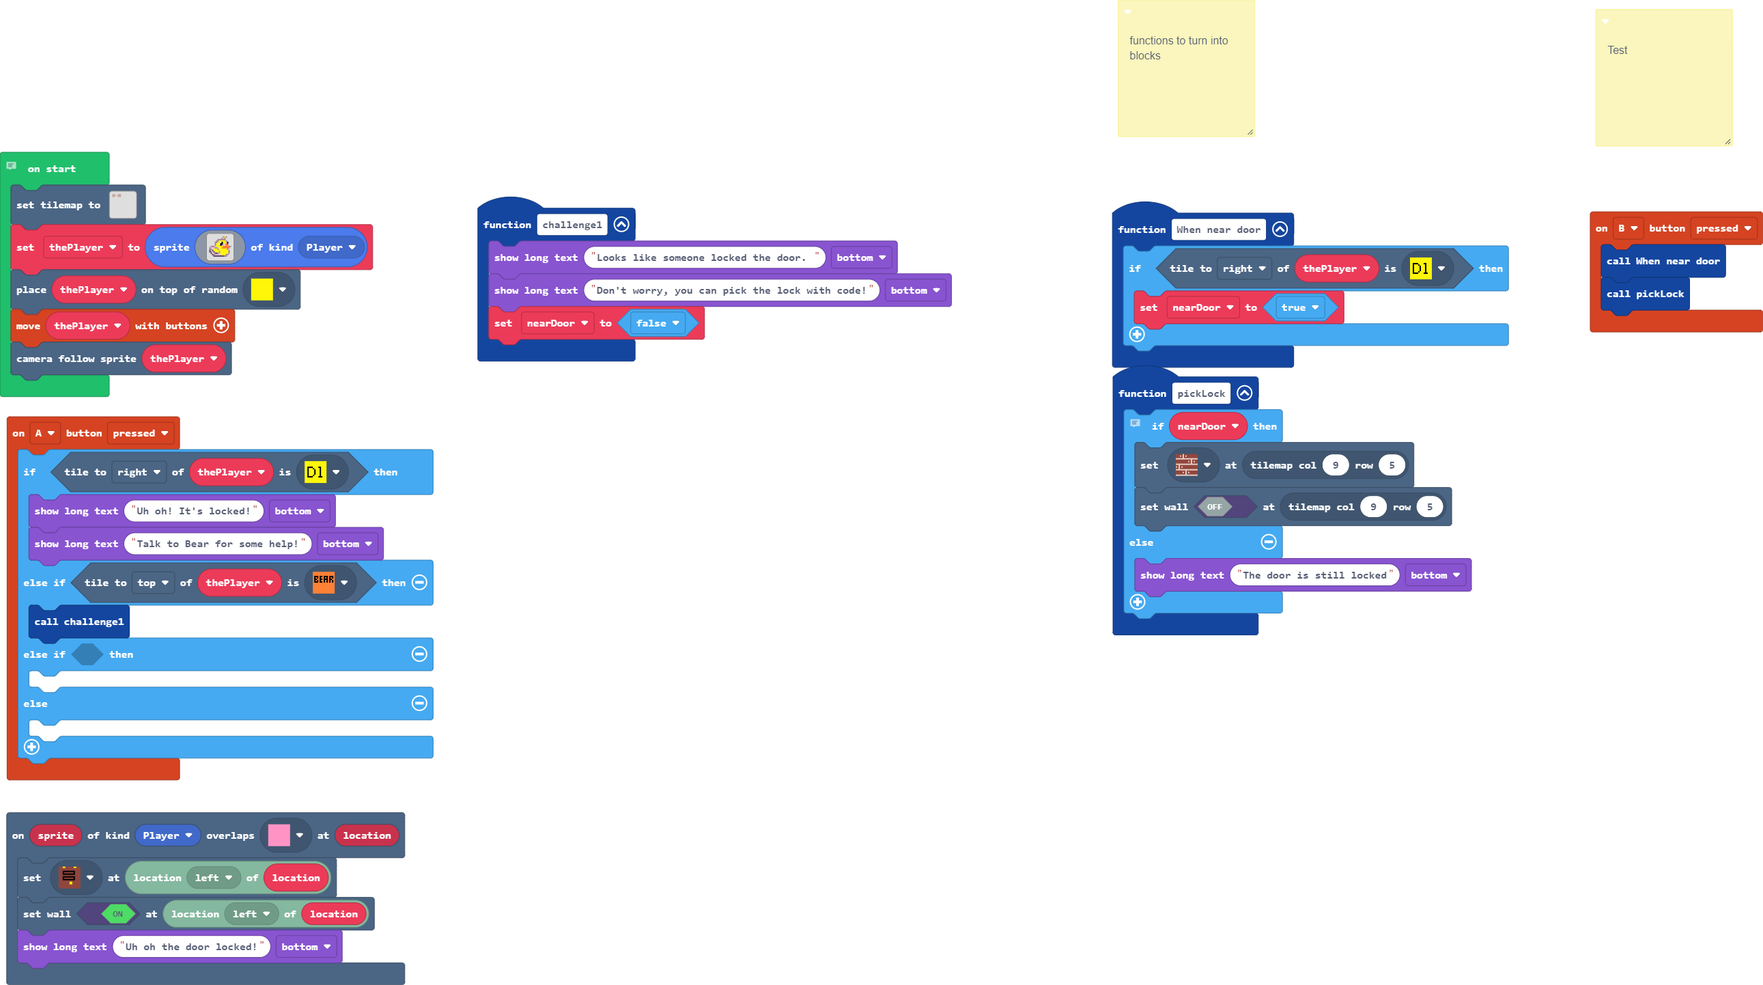
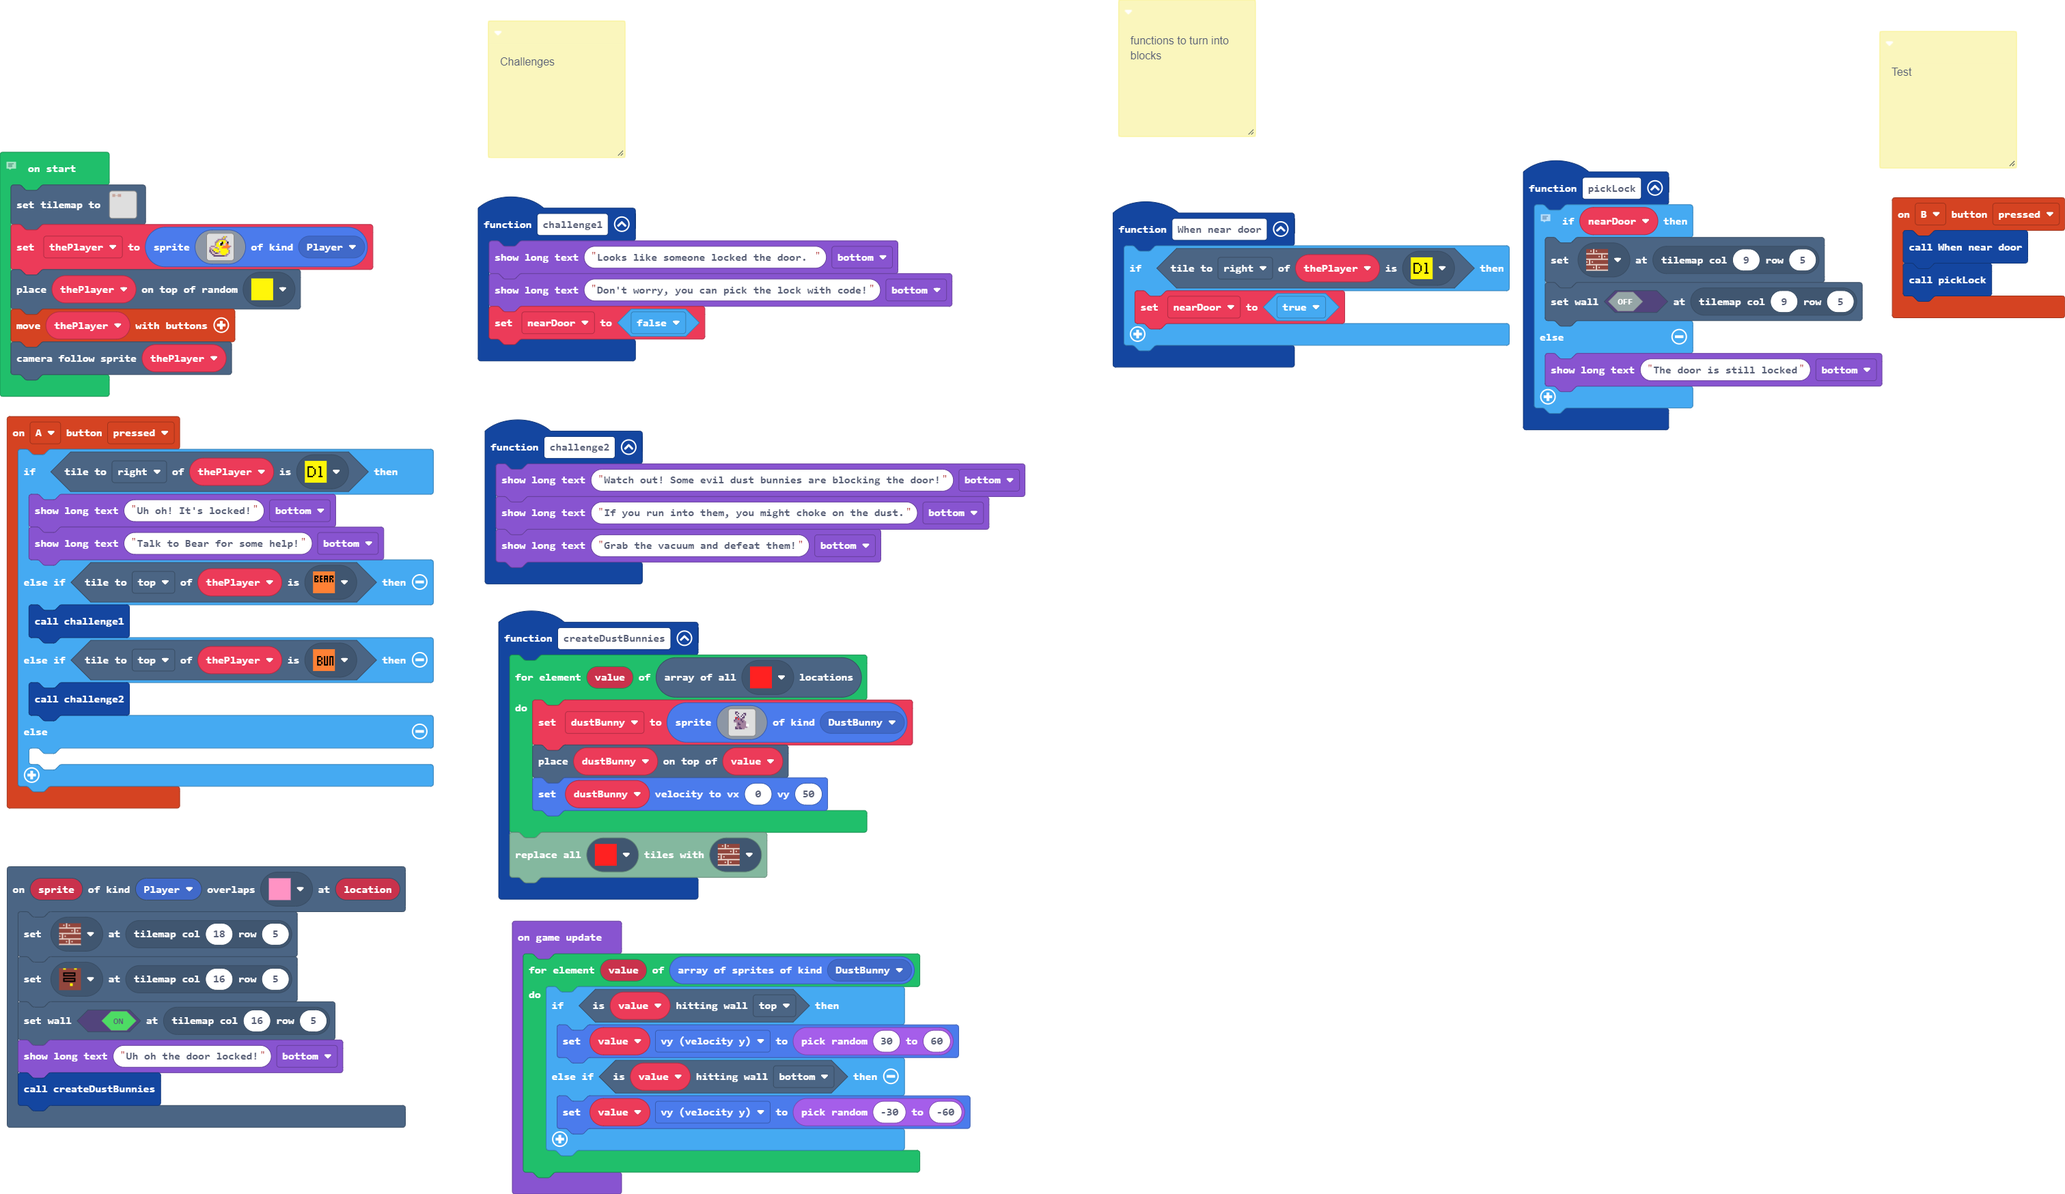
dust bunnies moving

diff --git a/main.ts b/main.ts
@@ -1,8 +1,11 @@
+namespace SpriteKind {
+    export const DustBunny = SpriteKind.create()
+}
 /**
- * functions to turn into blocks
+ * Challenges
  */
 /**
- * Test
+ * functions to turn into blocks
  */
 controller.B.onEvent(ControllerButtonEvent.Pressed, function () {
     When_near_door()
@@ -19,12 +22,15 @@ controller.A.onEvent(ControllerButtonEvent.Pressed, function () {
         game.showLongText("Talk to Bear for some help!", DialogLayout.Bottom)
     } else if (thePlayer.tileKindAt(TileDirection.Top, myTiles.tile6)) {
         challenge1()
-    } else if (false) {
-    	
+    } else if (thePlayer.tileKindAt(TileDirection.Top, myTiles.tile9)) {
+        challenge2()
     } else {
     	
     }
 })
+/**
+ * Test
+ */
 function pickLock () {
     // replace if with 'when near door'
     if (nearDoor) {
@@ -40,14 +46,47 @@ function When_near_door () {
     }
 }
 scene.onOverlapTile(SpriteKind.Player, myTiles.tile7, function (sprite, location) {
-    tiles.setTileAt(tiles.locationInDirection(location, CollisionDirection.Left), myTiles.tile4)
-    tiles.setWallAt(tiles.locationInDirection(location, CollisionDirection.Left), true)
+    tiles.setTileAt(tiles.getTileLocation(18, 5), myTiles.tile1)
+    tiles.setTileAt(tiles.getTileLocation(16, 5), myTiles.tile4)
+    tiles.setWallAt(tiles.getTileLocation(16, 5), true)
     game.showLongText("Uh oh the door locked!", DialogLayout.Bottom)
+    createDustBunnies()
 })
+function createDustBunnies () {
+    for (let value of tiles.getTilesByType(myTiles.tile10)) {
+        dustBunny = sprites.create(img`
+            . . . c c . . . . . . . . . . . 
+            . . . c 1 c . . . c c . . . . . 
+            . . . . c 1 . . c 1 c . . . . . 
+            . . . . . c 1 c 1 c . . . . . . 
+            . . . 2 c b b 1 c c . . . . . . 
+            . . . c b 2 b c b . . . . . . . 
+            . . c b b b b c b b . . . . . . 
+            . . b b b b b b c b b . . . . . 
+            . . . . b c b b b b b . . . . . 
+            . . . . b c c b b b b 1 1 . . . 
+            . . . . b b b b b b b 1 1 . . . 
+            . . . c b b c b b b b b . . . . 
+            . . . c c b c c b b . . . . . . 
+            . . . . . . . . . . . . . . . . 
+            . . . . . . . . . . . . . . . . 
+            . . . . . . . . . . . . . . . . 
+            `, SpriteKind.DustBunny)
+        tiles.placeOnTile(dustBunny, value)
+        dustBunny.setVelocity(0, 50)
+    }
+    tiles.replaceAllTiles(myTiles.tile10, myTiles.tile1)
+}
+function challenge2 () {
+    game.showLongText("Watch out! Some evil dust bunnies are blocking the door!", DialogLayout.Bottom)
+    game.showLongText("If you run into them, you might choke on the dust.", DialogLayout.Bottom)
+    game.showLongText("Grab the vacuum and defeat them!", DialogLayout.Bottom)
+}
 // add intro, instructions
+let dustBunny: Sprite = null
 let nearDoor = false
 let thePlayer: Sprite = null
-tiles.setTilemap(tiles.createTilemap(hex`4000400002020202020202020202000000000000020202020202020202020200000000000000000000000000000000000000000000000000000000000000000000000000020101010101050101020000000000000201010501010101010102000000000000000000000000000000000000000000000000000000000000000000000000000201010101010101010200000000000002010101010101010101020000000000000000000000000000000000000000000000000000000000000000000000000002010101010101010102000000000000020101010101010101010200000000000000000000000000000000000000000000000000000000000000000000000000020103010101010101020202020202020201010101010101010102000000000000000000000000000000000000000000000000000000000000000000000000000201010101010101010401010101010107060101010101010101020000000000000000000000000000000000000000000000000000000000000000000000000002010101010101010102020202020202020101010101010101010200000000000000000000000000000000000000000000000000000000000000000000000000020101010101010101020000000000000201010101010101010102000000000000000000000000000000000000000000000000000000000000000000000000000201010101010101010200000000000002010101010101010101020000000000000000000000000000000000000000000000000000000000000000000000000002020202020202020202000000000000020202020202020202020200000000000000000000000000000000000000000000000000000000000000000000000000000000000000000000000000000000000000000000000000000000000000000000000000000000000000000000000000000000000000000000000000000000000000000000000000000000000000000000000000000000000000000000000000000000000000000000000000000000000000000000000000000000000000000000000000000000000000000000000000000000000000000000000000000000000000000000000000000000000000000000000000000000000000000000000000000000000000000000000000000000000000000000000000000000000000000000000000000000000000000000000000000000000000000000000000000000000000000000000000000000000000000000000000000000000000000000000000000000000000000000000000000000000000000000000000000000000000000000000000000000000000000000000000000000000000000000000000000000000000000000000000000000000000000000000000000000000000000000000000000000000000000000000000000000000000000000000000000000000000000000000000000000000000000000000000000000000000000000000000000000000000000000000000000000000000000000000000000000000000000000000000000000000000000000000000000000000000000000000000000000000000000000000000000000000000000000000000000000000000000000000000000000000000000000000000000000000000000000000000000000000000000000000000000000000000000000000000000000000000000000000000000000000000000000000000000000000000000000000000000000000000000000000000000000000000000000000000000000000000000000000000000000000000000000000000000000000000000000000000000000000000000000000000000000000000000000000000000000000000000000000000000000000000000000000000000000000000000000000000000000000000000000000000000000000000000000000000000000000000000000000000000000000000000000000000000000000000000000000000000000000000000000000000000000000000000000000000000000000000000000000000000000000000000000000000000000000000000000000000000000000000000000000000000000000000000000000000000000000000000000000000000000000000000000000000000000000000000000000000000000000000000000000000000000000000000000000000000000000000000000000000000000000000000000000000000000000000000000000000000000000000000000000000000000000000000000000000000000000000000000000000000000000000000000000000000000000000000000000000000000000000000000000000000000000000000000000000000000000000000000000000000000000000000000000000000000000000000000000000000000000000000000000000000000000000000000000000000000000000000000000000000000000000000000000000000000000000000000000000000000000000000000000000000000000000000000000000000000000000000000000000000000000000000000000000000000000000000000000000000000000000000000000000000000000000000000000000000000000000000000000000000000000000000000000000000000000000000000000000000000000000000000000000000000000000000000000000000000000000000000000000000000000000000000000000000000000000000000000000000000000000000000000000000000000000000000000000000000000000000000000000000000000000000000000000000000000000000000000000000000000000000000000000000000000000000000000000000000000000000000000000000000000000000000000000000000000000000000000000000000000000000000000000000000000000000000000000000000000000000000000000000000000000000000000000000000000000000000000000000000000000000000000000000000000000000000000000000000000000000000000000000000000000000000000000000000000000000000000000000000000000000000000000000000000000000000000000000000000000000000000000000000000000000000000000000000000000000000000000000000000000000000000000000000000000000000000000000000000000000000000000000000000000000000000000000000000000000000000000000000000000000000000000000000000000000000000000000000000000000000000000000000000000000000000000000000000000000000000000000000000000000000000000000000000000000000000000000000000000000000000000000000000000000000000000000000000000000000000000000000000000000000000000000000000000000000000000000000000000000000000000000000000000000000000000000000000000000000000000000000000000000000000000000000000000000000000000000000000000000000000000000000000000000000000000000000000000000000000000000000000000000000000000000000000000000000000000000000000000000000000000000000000000000000000000000000000000000000000000000000000000000000000000000000000000000000000000000000000000000000000000000000000000000000000000000000000000000000000000000000000000000000000000000000000000000000000000000000000000000000000000000000000000000000000000000000000000000000000000000000000000000000000000000000000000000000000000000000000000000000000000000000000000000000000000000000000000000000000000000000000000000000000000000000000000000000000000000000000000000000000000000000000000000000000000000000000000000000000000000000000000000000000000000000000000000000000000000000000000000000000000000000000000000000000000000000000000000000000000000000000000000000000000000000000000000000000000000000000000000000000000000000000000000000000000000000000000000000000000000000000000000000000000000000000000000000000000000000000000000000000000000000000000000000000000000000000000000000000000000000000000000000000000000000000000000000000000000000000000000000000000000000000000000000000000000000000000000000000000000000000000000000000000000000000000000000000000000000000000000000000000000000000000000000000000000000000000000000000000000000000000000000000000000000000000000000000000000000000000000000000000000000000000000000000000000000000000000000000000000000000000000000000000000000000000000000000000000000000000000000000000000000000000000000000000000000000000000000000000000000000000000000000000000000000000000000000000000000000000000000000000000000000000000000000000000000000000000000000000000000000000000000000000000000000000000000000000000000000000000000000000000000000000000000000000000000000000000000000000000000000000000000000000000000000000000000000000000000000000000000000000000000000000000000000000000000000000000000000000000000000000000000000000000000000000000000000000000000000000000000000000000000000000000000000000000000000000000000000000000000000000000000000000000000000000000000000000000000000000000000000000000000000000000000000000000000000000000000000000000000000000000000000000000000000000000000000000000000000000000000000000000000000000000000000000000000000000000000000000000000000000000000000000000000000000000000000000000000000000000000000000000000000000000000000000000000000000000000000000000000000000000000000000000000000000000000000000000000000000000000000000000000000000000000000000000000000000000000000000000000000000000000000000000000000000000000000000000000000000000000000000000000000000000000000000000000000000000000000000000000000000000000000000000000000000000000000000000000000000000000000000000000000000000000000000000000000000000000000000000000000000000000000000000000000000000000000000000000000000000000000000000000000000000000000000000000000000000000000000000000000000000000000000000000000000000000000000000000000000000000000000000000000000000000000000000000000000000000000000000000000000000000000000000000000000000000000000000000000000000000000000000000000000000000000000000000000000000000000000000000000000000000000000`, img`
+tiles.setTilemap(tiles.createTilemap(hex`4000400002020202020202020202000000000000020202020202020202020200000000000000000000000000000000000000000000000000000000000000000000000000020101010101050101020000000000000201010501010101010102000000000000000000000000000000000000000000000000000000000000000000000000000201010101010101010200000000000002010101010101010101020000000000000000000000000000000000000000000000000000000000000000000000000002010101010101010102000000000000020101010101010108010200000000000000000000000000000000000000000000000000000000000000000000000000020103010101010101020202020202020201010101010101010102000000000000000000000000000000000000000000000000000000000000000000000000000201010101010101010401010101010107010601010101010801020000000000000000000000000000000000000000000000000000000000000000000000000002010101010101010102020202020202020101010101010101010200000000000000000000000000000000000000000000000000000000000000000000000000020101010101010101020000000000000201010101010101080102000000000000000000000000000000000000000000000000000000000000000000000000000201010101010101010200000000000002010101010101010101020000000000000000000000000000000000000000000000000000000000000000000000000002020202020202020202000000000000020202020202020202020200000000000000000000000000000000000000000000000000000000000000000000000000000000000000000000000000000000000000000000000000000000000000000000000000000000000000000000000000000000000000000000000000000000000000000000000000000000000000000000000000000000000000000000000000000000000000000000000000000000000000000000000000000000000000000000000000000000000000000000000000000000000000000000000000000000000000000000000000000000000000000000000000000000000000000000000000000000000000000000000000000000000000000000000000000000000000000000000000000000000000000000000000000000000000000000000000000000000000000000000000000000000000000000000000000000000000000000000000000000000000000000000000000000000000000000000000000000000000000000000000000000000000000000000000000000000000000000000000000000000000000000000000000000000000000000000000000000000000000000000000000000000000000000000000000000000000000000000000000000000000000000000000000000000000000000000000000000000000000000000000000000000000000000000000000000000000000000000000000000000000000000000000000000000000000000000000000000000000000000000000000000000000000000000000000000000000000000000000000000000000000000000000000000000000000000000000000000000000000000000000000000000000000000000000000000000000000000000000000000000000000000000000000000000000000000000000000000000000000000000000000000000000000000000000000000000000000000000000000000000000000000000000000000000000000000000000000000000000000000000000000000000000000000000000000000000000000000000000000000000000000000000000000000000000000000000000000000000000000000000000000000000000000000000000000000000000000000000000000000000000000000000000000000000000000000000000000000000000000000000000000000000000000000000000000000000000000000000000000000000000000000000000000000000000000000000000000000000000000000000000000000000000000000000000000000000000000000000000000000000000000000000000000000000000000000000000000000000000000000000000000000000000000000000000000000000000000000000000000000000000000000000000000000000000000000000000000000000000000000000000000000000000000000000000000000000000000000000000000000000000000000000000000000000000000000000000000000000000000000000000000000000000000000000000000000000000000000000000000000000000000000000000000000000000000000000000000000000000000000000000000000000000000000000000000000000000000000000000000000000000000000000000000000000000000000000000000000000000000000000000000000000000000000000000000000000000000000000000000000000000000000000000000000000000000000000000000000000000000000000000000000000000000000000000000000000000000000000000000000000000000000000000000000000000000000000000000000000000000000000000000000000000000000000000000000000000000000000000000000000000000000000000000000000000000000000000000000000000000000000000000000000000000000000000000000000000000000000000000000000000000000000000000000000000000000000000000000000000000000000000000000000000000000000000000000000000000000000000000000000000000000000000000000000000000000000000000000000000000000000000000000000000000000000000000000000000000000000000000000000000000000000000000000000000000000000000000000000000000000000000000000000000000000000000000000000000000000000000000000000000000000000000000000000000000000000000000000000000000000000000000000000000000000000000000000000000000000000000000000000000000000000000000000000000000000000000000000000000000000000000000000000000000000000000000000000000000000000000000000000000000000000000000000000000000000000000000000000000000000000000000000000000000000000000000000000000000000000000000000000000000000000000000000000000000000000000000000000000000000000000000000000000000000000000000000000000000000000000000000000000000000000000000000000000000000000000000000000000000000000000000000000000000000000000000000000000000000000000000000000000000000000000000000000000000000000000000000000000000000000000000000000000000000000000000000000000000000000000000000000000000000000000000000000000000000000000000000000000000000000000000000000000000000000000000000000000000000000000000000000000000000000000000000000000000000000000000000000000000000000000000000000000000000000000000000000000000000000000000000000000000000000000000000000000000000000000000000000000000000000000000000000000000000000000000000000000000000000000000000000000000000000000000000000000000000000000000000000000000000000000000000000000000000000000000000000000000000000000000000000000000000000000000000000000000000000000000000000000000000000000000000000000000000000000000000000000000000000000000000000000000000000000000000000000000000000000000000000000000000000000000000000000000000000000000000000000000000000000000000000000000000000000000000000000000000000000000000000000000000000000000000000000000000000000000000000000000000000000000000000000000000000000000000000000000000000000000000000000000000000000000000000000000000000000000000000000000000000000000000000000000000000000000000000000000000000000000000000000000000000000000000000000000000000000000000000000000000000000000000000000000000000000000000000000000000000000000000000000000000000000000000000000000000000000000000000000000000000000000000000000000000000000000000000000000000000000000000000000000000000000000000000000000000000000000000000000000000000000000000000000000000000000000000000000000000000000000000000000000000000000000000000000000000000000000000000000000000000000000000000000000000000000000000000000000000000000000000000000000000000000000000000000000000000000000000000000000000000000000000000000000000000000000000000000000000000000000000000000000000000000000000000000000000000000000000000000000000000000000000000000000000000000000000000000000000000000000000000000000000000000000000000000000000000000000000000000000000000000000000000000000000000000000000000000000000000000000000000000000000000000000000000000000000000000000000000000000000000000000000000000000000000000000000000000000000000000000000000000000000000000000000000000000000000000000000000000000000000000000000000000000000000000000000000000000000000000000000000000000000000000000000000000000000000000000000000000000000000000000000000000000000000000000000000000000000000000000000000000000000000000000000000000000000000000000000000000000000000000000000000000000000000000000000000000000000000000000000000000000000000000000000000000000000000000000000000000000000000000000000000000000000000000000000000000000000000000000000000000000000000000000000000000000000000000000000000000000000000000000000000000000000000000000000000000000000000000000000000000000000000000000000000000000000000000000000000000000000000000000000000000000000000000000000000000000000000000000000000000000000000000000000000000000000000000000000000000000000000000000000000000000000000000000000000000000000000000000000000000000000000000000000000000000000000000000000000000000000000000000000000000000000000000000000000000000000000000000000000000000000000000000000000000000000000000000000000000000000000000000000000000000000000000000000000000000000000000000000000000000000000000000000000000000000000000`, img`
     2 2 2 2 2 2 2 2 2 2 . . . . . . 2 2 2 2 2 2 2 2 2 2 2 . . . . . . . . . . . . . . . . . . . . . . . . . . . . . . . . . . . . . 
     2 . . . . . 2 . . 2 . . . . . . 2 . . 2 . . . . . . 2 . . . . . . . . . . . . . . . . . . . . . . . . . . . . . . . . . . . . . 
     2 . . . . . . . . 2 . . . . . . 2 . . . . . . . . . 2 . . . . . . . . . . . . . . . . . . . . . . . . . . . . . . . . . . . . . 
@@ -112,7 +151,7 @@ tiles.setTilemap(tiles.createTilemap(hex`400040000202020202020202020200000000000
     . . . . . . . . . . . . . . . . . . . . . . . . . . . . . . . . . . . . . . . . . . . . . . . . . . . . . . . . . . . . . . . . 
     . . . . . . . . . . . . . . . . . . . . . . . . . . . . . . . . . . . . . . . . . . . . . . . . . . . . . . . . . . . . . . . . 
     . . . . . . . . . . . . . . . . . . . . . . . . . . . . . . . . . . . . . . . . . . . . . . . . . . . . . . . . . . . . . . . . 
-    `, [myTiles.transparency16,myTiles.tile1,myTiles.tile2,myTiles.tile3,myTiles.tile5,myTiles.tile6,myTiles.tile7,myTiles.tile8], TileScale.Sixteen))
+    `, [myTiles.transparency16,myTiles.tile1,myTiles.tile2,myTiles.tile3,myTiles.tile5,myTiles.tile6,myTiles.tile7,myTiles.tile8,myTiles.tile10], TileScale.Sixteen))
 thePlayer = sprites.create(img`
     . . . . . . . . . . b 5 b . . . 
     . . . . . . . . . b 5 b . . . . 
@@ -134,3 +173,12 @@ thePlayer = sprites.create(img`
 tiles.placeOnRandomTile(thePlayer, myTiles.tile3)
 controller.moveSprite(thePlayer)
 scene.cameraFollowSprite(thePlayer)
+game.onUpdate(function () {
+    for (let value of sprites.allOfKind(SpriteKind.DustBunny)) {
+        if (value.isHittingTile(CollisionDirection.Top)) {
+            value.vy = randint(30, 60)
+        } else if (value.isHittingTile(CollisionDirection.Bottom)) {
+            value.vy = randint(-30, -60)
+        }
+    }
+})

diff --git a/tilemap.g.ts b/tilemap.g.ts
@@ -20,6 +20,8 @@ namespace myTiles {
     export const tile8 = image.ofBuffer(hex``);
     //% fixedInstance jres blockIdentity=images._tile
     export const tile9 = image.ofBuffer(hex``);
+    //% fixedInstance jres blockIdentity=images._tile
+    export const tile10 = image.ofBuffer(hex``);
 
 }
 // Auto-generated code. Do not edit.
